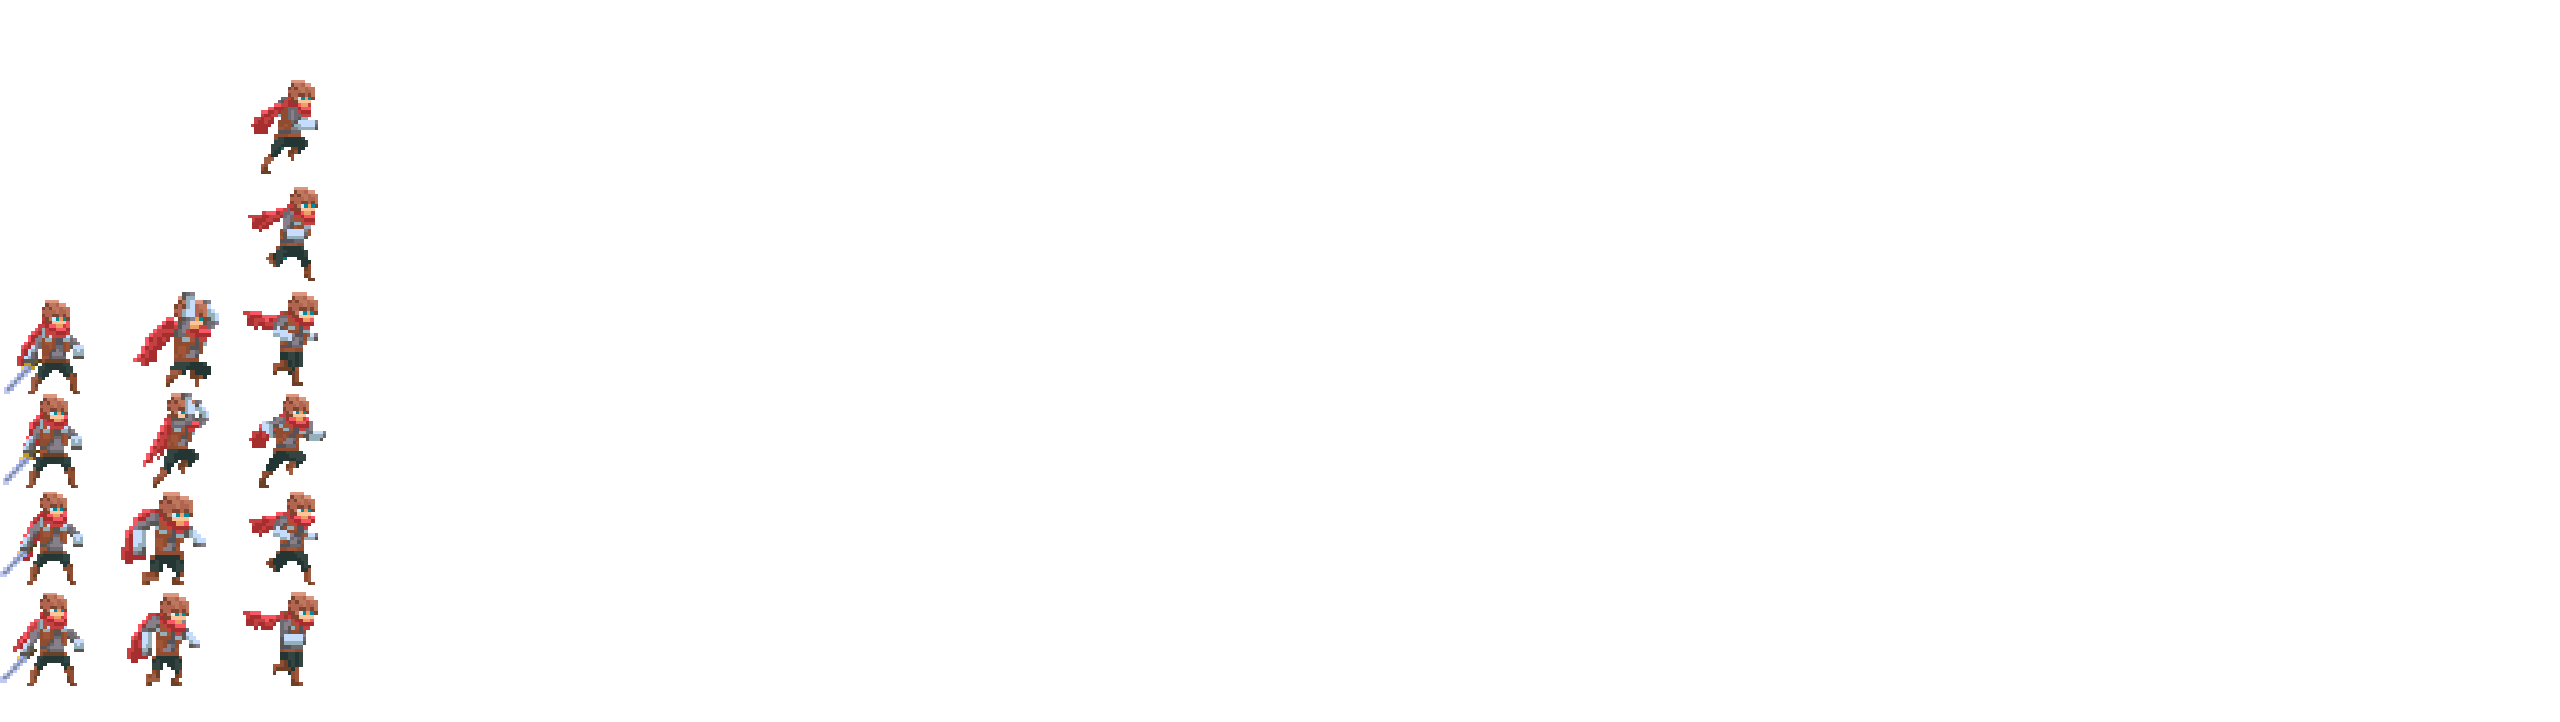
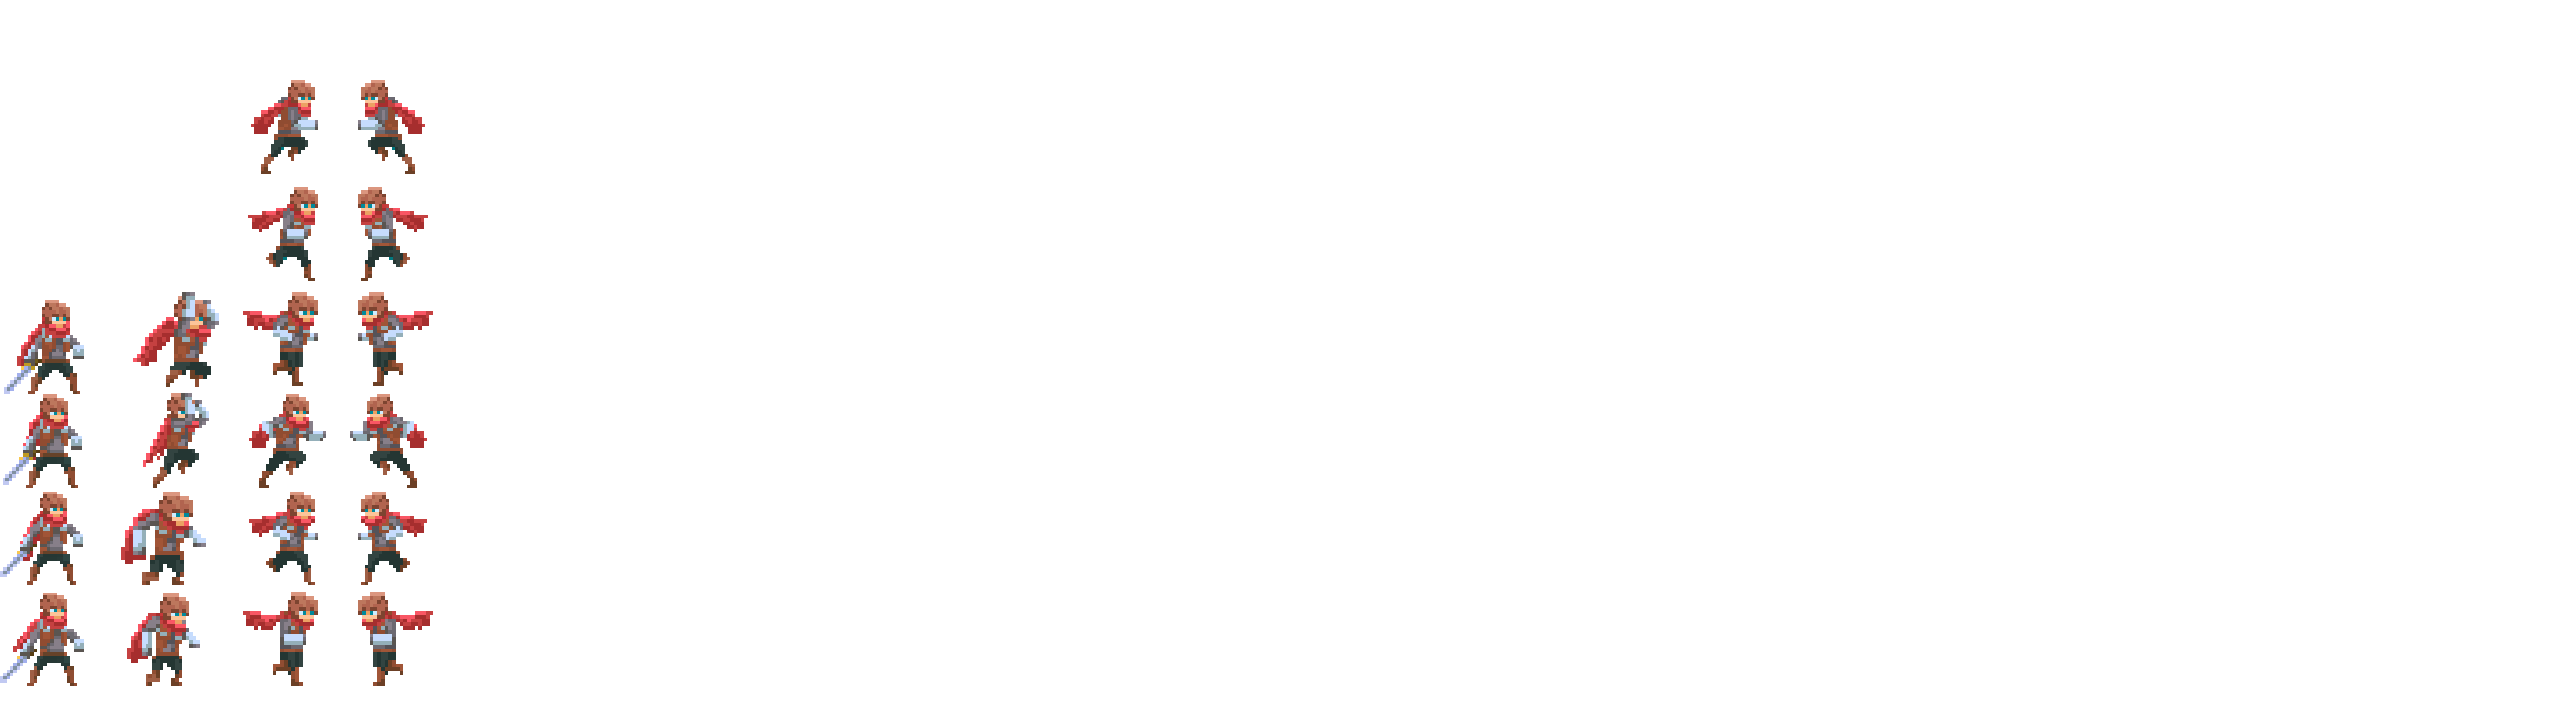
All animations added

diff --git a/Game/Source/Player.cpp b/Game/Source/Player.cpp
@@ -31,7 +31,7 @@ Player::Player() : Module()
 	jumpAnim.PushBack({ 121,492,85,93 });
 	jumpAnim.PushBack({ 127,593,73,93 });
 	
-	jumpAnim.speed = 0.05f;
+	jumpAnim.speed = 0.1f;
 
 
 	rightAnim.PushBack({243,592,75,94});
@@ -43,6 +43,16 @@ Player::Player() : Module()
 	rightAnim.loop = true;
 	rightAnim.speed = 0.1f;
 	//HERE ALL THE ANIMATIONS
+
+	leftAnim.PushBack({358,592,75,94});
+	leftAnim.PushBack({358,492,69,93});
+	leftAnim.PushBack({350,394,77,94});
+	leftAnim.PushBack({358,292,75,94});
+	leftAnim.PushBack({358,187,70,94});
+	leftAnim.PushBack({358,80,67,94});
+	leftAnim.loop = true;
+	leftAnim.speed = 0.1f;
+
 
 }
 
@@ -169,6 +179,10 @@ bool Player::Update(float dt)
 	if (app->input->GetKey(SDL_SCANCODE_A) == KEY_REPEAT)
 	{
 		cpx -= vcx;
+		if (currentAnimation != &leftAnim) {
+			leftAnim.Reset();
+			currentAnimation = &leftAnim;
+		}
 		if (cpx > 640 && cpx < 1920)
 		{
 			app->render->camera.x += vcx;
